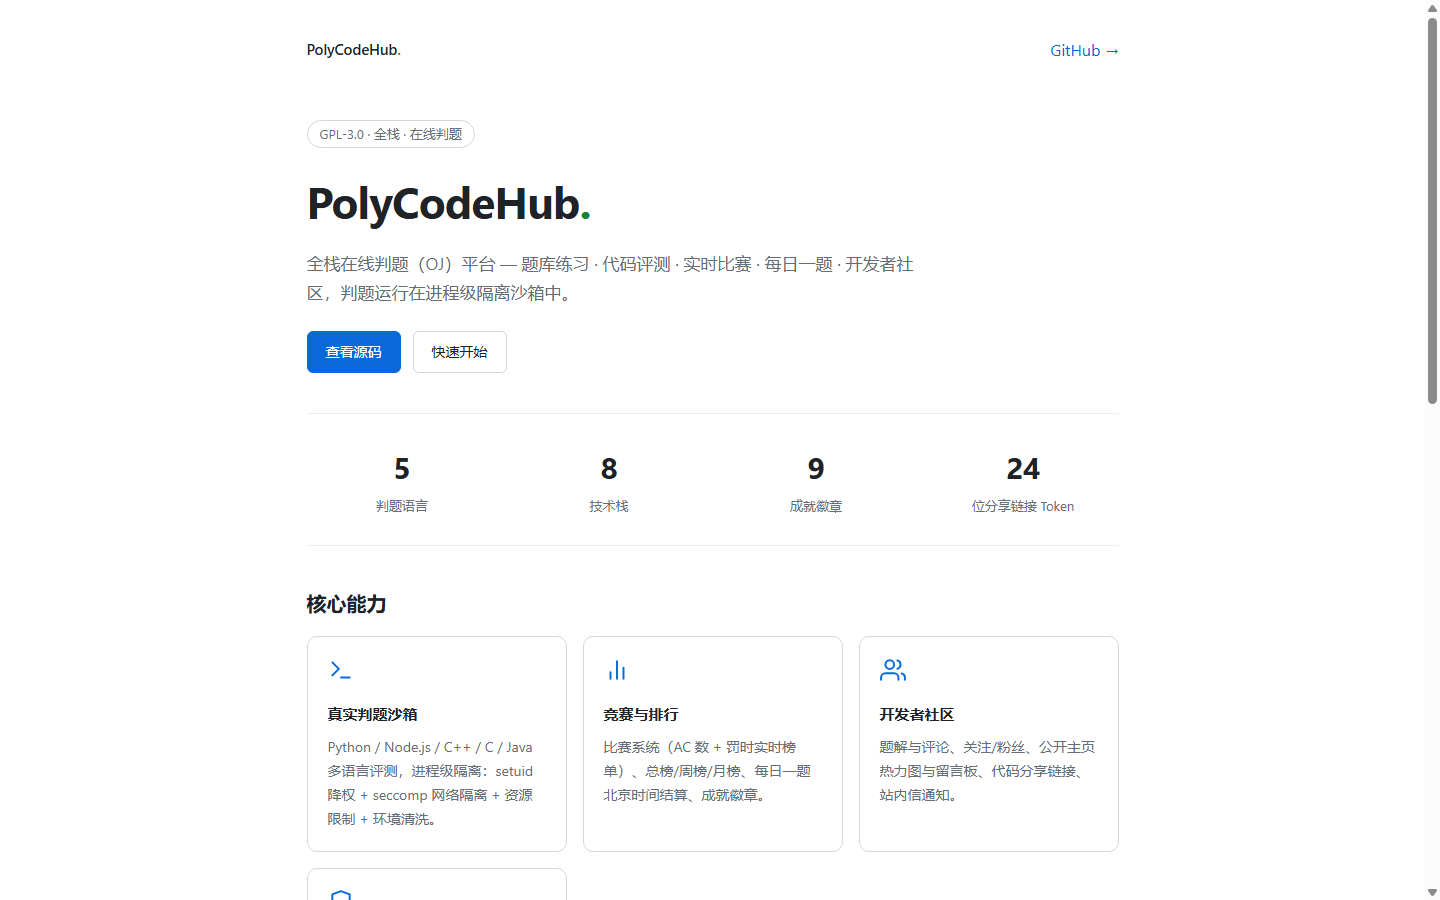
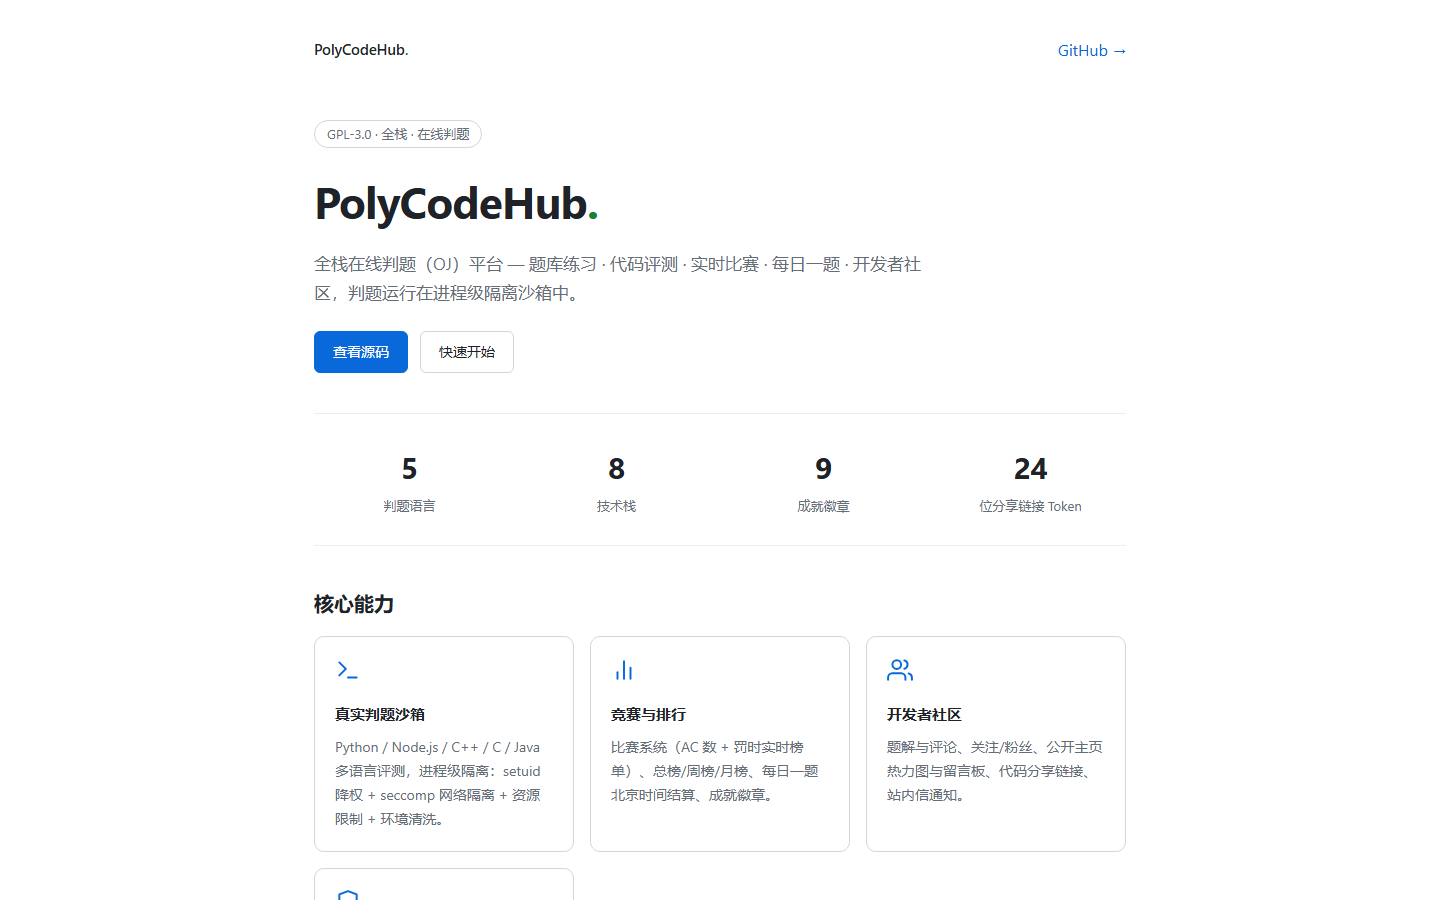
fix(projects): 封面图重截为 16:9 并移至详情页标题下方

diff --git a/src/pages/ProjectDetail.vue b/src/pages/ProjectDetail.vue
@@ -52,12 +52,6 @@ watchEffect(async (onInvalidate) => {
 
     <div v-else class="container container--narrow project-detail">
       <RouterLink to="/projects" class="back-link">← 返回项目列表</RouterLink>
-      <img
-        v-if="project.cover"
-        :src="baseUrl + project.cover"
-        :alt="`${project.title} 预览`"
-        class="project-detail__cover"
-      />
       <header class="project-detail__head">
         <div class="project-detail__title-row">
           <h1>{{ project.title }}</h1>
@@ -73,6 +67,13 @@ watchEffect(async (onInvalidate) => {
           <ExternalLink v-if="project.demo" :href="project.demo">Demo</ExternalLink>
         </div>
       </header>
+
+      <img
+        v-if="project.cover"
+        :src="baseUrl + project.cover"
+        :alt="`${project.title} 预览`"
+        class="project-detail__cover"
+      />
 
       <hr class="project-detail__divider" />
 
@@ -156,9 +157,7 @@ watchEffect(async (onInvalidate) => {
 .project-detail__cover {
   display: block;
   width: 100%;
-  max-height: 420px;
-  object-fit: cover;
-  object-position: top;
+  height: auto;
   border: var(--border-default);
   border-radius: var(--radius-lg);
   margin: var(--space-6) 0 0;
